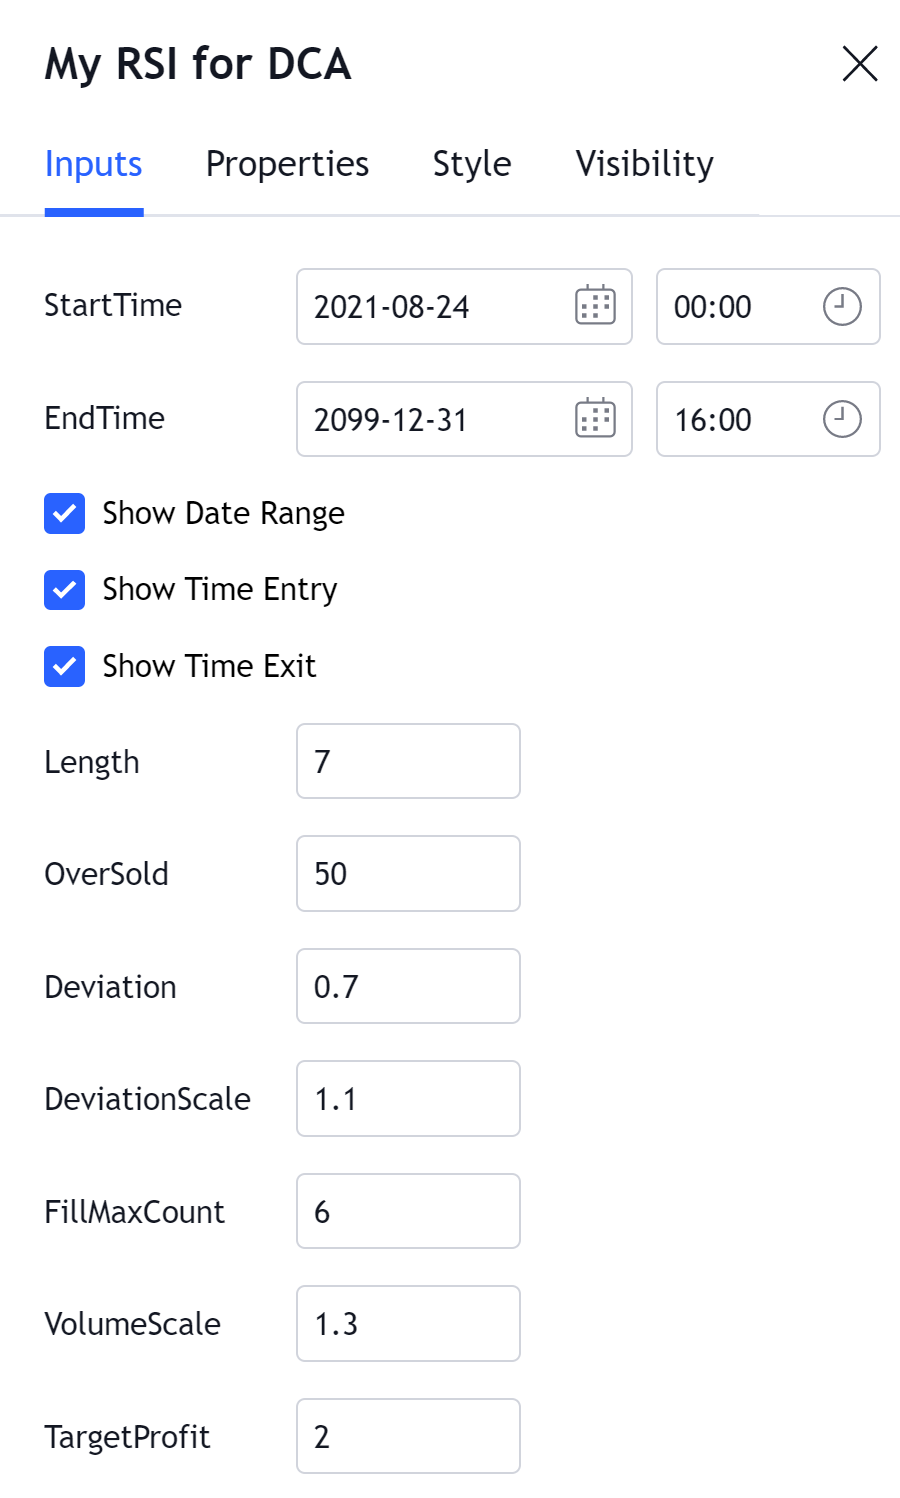
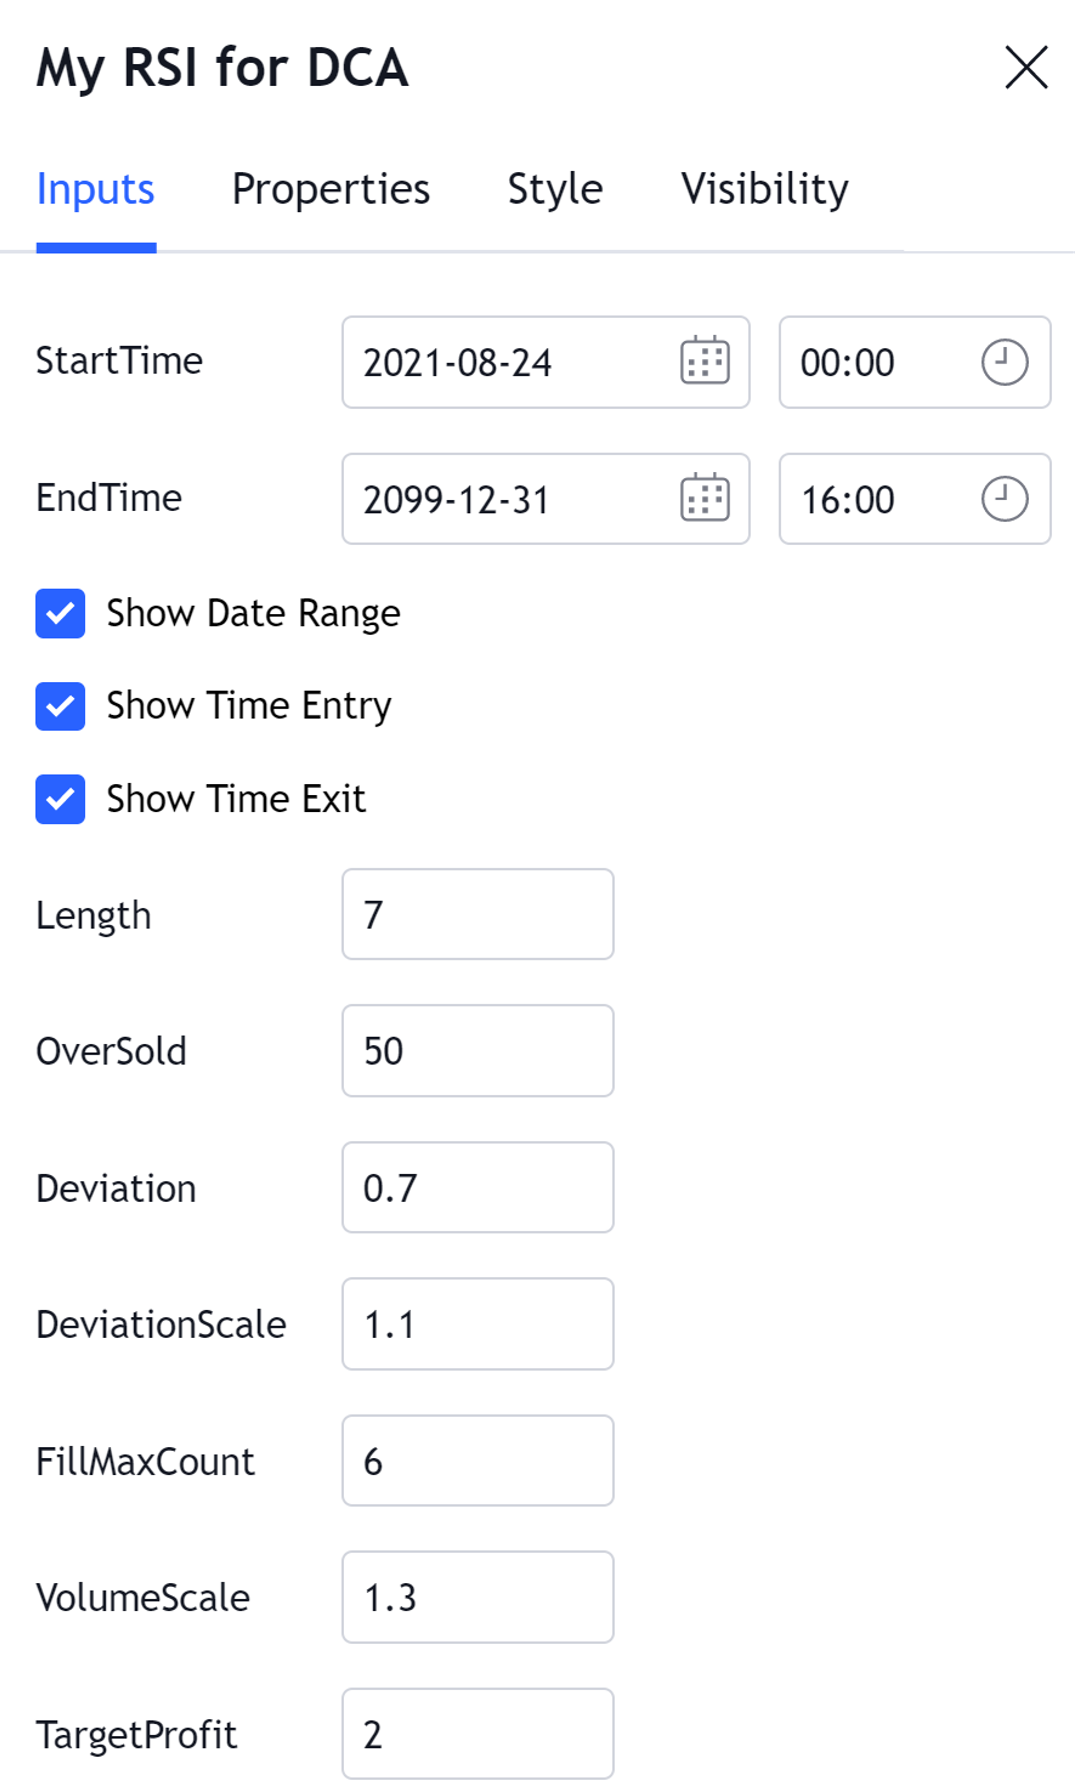
polishing

diff --git a/README.md b/README.md
@@ -5,6 +5,6 @@
 
 以下是最优参数设置
 
-![](https://github.com/bigbaldy1128/tradingview-strategy/blob/master/params.PNG)
+![](https://github.com/bigbaldy1128/tradingview-strategy/blob/master/params.png)
 
 欢迎大家一起探讨和分享自己的代码
